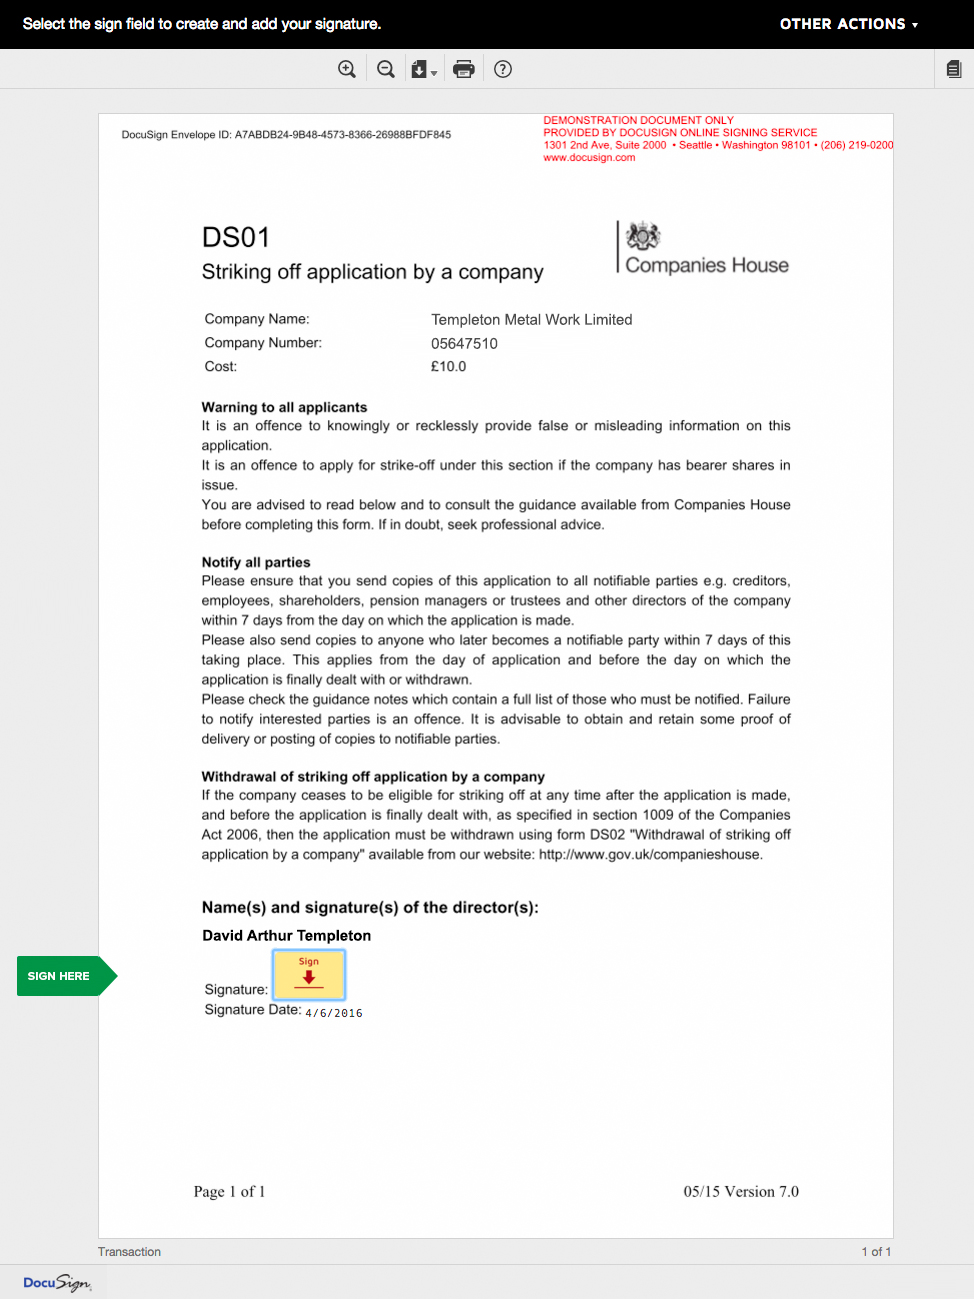
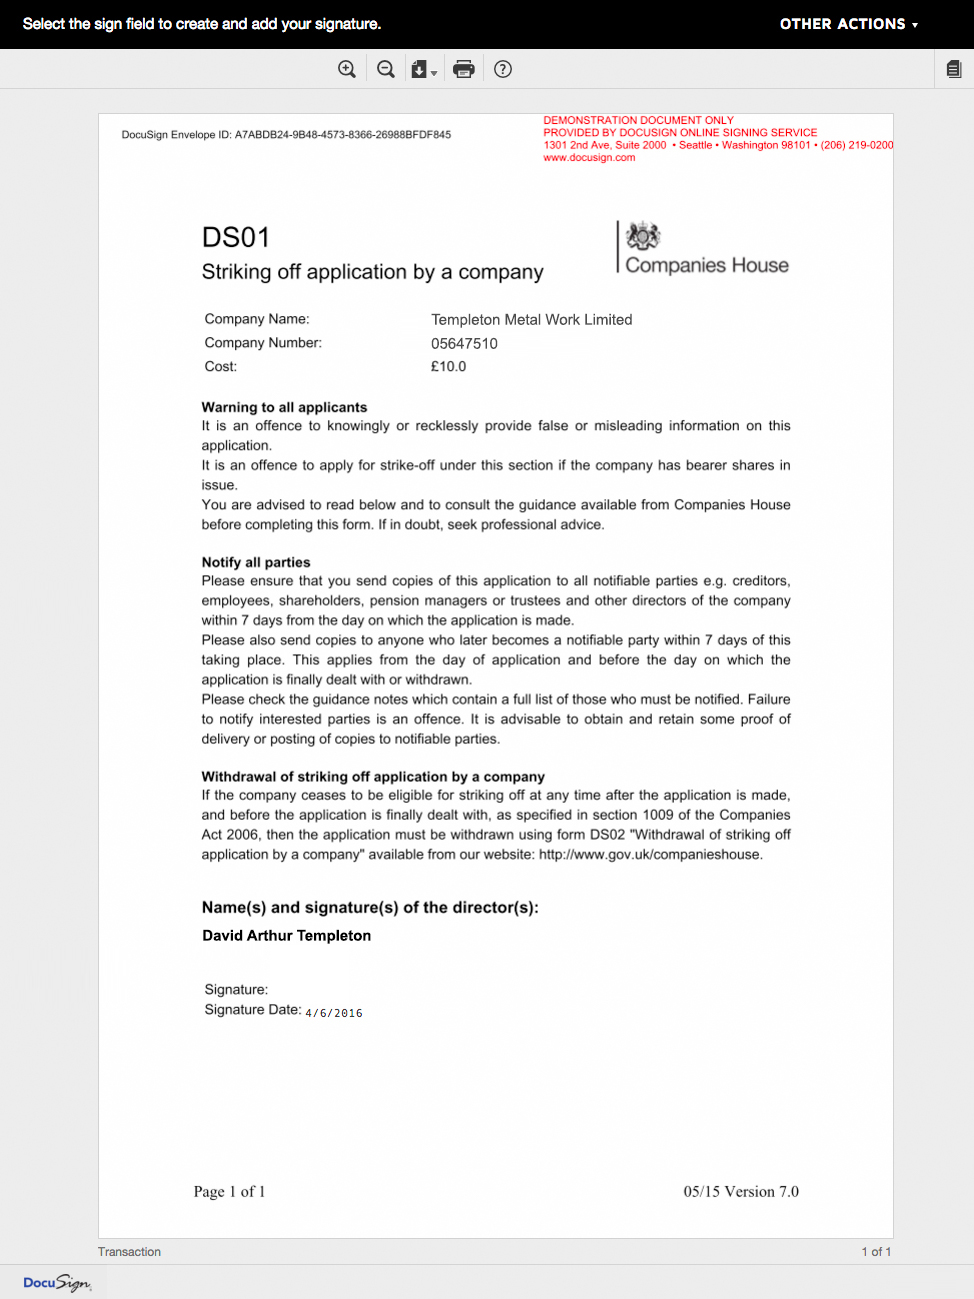
Updated signing process
Updated the dousing process to better reflect the real-world process.
Users now have to click the yellow ‘sign’ box and are shown the
confirmation bar before proceeding.

Changed region(s): [[0.2772, 0.7082, 0.3696, 0.7698], [0.0, 0.739, 0.1232, 0.7698]]

diff --git a/app/views/forms/DS01/company-details.html b/app/views/forms/DS01/company-details.html
@@ -30,7 +30,7 @@
             Company Number
             <span class="form-hint">This is the number you put at the bottom of your company stationery.</span>
           </label>
-          <input class="form-control" id="company-number" name="company-number" type="number" value="05647510">
+          <input class="form-control" id="company-number" name="company-number" type="number" value="">
         </div>
 
         <div class="form-group">
@@ -38,7 +38,7 @@
             Company authentication code
             <span class="form-hint">This is the code you use to file your accounts online.</span>
           </label>
-          <input class="form-control" id="company-auth-code" name="company-auth-code" type="text" value="44A7JJ9C">
+          <input class="form-control" id="company-auth-code" name="company-auth-code" type="text" value="">
           <p>
             <details>
               <summary><span class="summary">How do I get an authentication code?</span></summary>

diff --git a/app/assets/sass/application.scss b/app/assets/sass/application.scss
@@ -39,3 +39,43 @@
 }
 
 // Add extra styles here, or re-organise the Sass files in whichever way makes most sense to you
+
+//Docusign Styles
+.docusign {
+  &.unsigned {
+    background: url('/public/images/docusign-unsigned.png');
+    background-size: cover;
+    height: 1280px;
+    position: relative;
+    overflow: hidden;
+    .add-sig-box {
+      position: absolute;
+      left: 267px;
+      bottom: 285px;
+    }
+    .sign-tag {
+      position: absolute;
+      bottom:296px;
+      left:15px;
+    }
+    .sig {
+      display: none;
+      position: absolute;
+      bottom: 297px;
+      left: 269px;
+    }
+    .confirm-bar {
+      width: 960px;
+      height: 50px;
+      position: absolute;
+      bottom: -50px;
+      left: 0;
+      background: url('/public/images/confirm-bar.png');
+      .conf-btn {
+        position: absolute;
+        top: 5px;
+        left: 667px;
+      }
+    }
+  }
+}

diff --git a/app/views/forms/DS01/docusign.html b/app/views/forms/DS01/docusign.html
@@ -28,10 +28,17 @@
     As the director of Templeton Metal Work Limited, your signature is required to strike the company off the register.
   </p>
 
-  <div class="docusign">
-    <a href="docusign-signature">
-      <img src="/public/images/docusign-add-sig.jpg" alt="" style="width: 100%;">
+  <div class="docusign unsigned">
+    <a href="docusign-signature" class="add-sig-box">
+      <img src="/public/images/add-sig.png" alt="" class="">
     </a>
+    <img src="/public/images/sign-tag.png" alt="" class="sign-tag">
+    <img src="/public/images/sig.png" alt="" class="sig">
+    <div class="confirm-bar">
+      <a href="review" class="conf-btn">
+        <img src="/public/images/confirm-button.png" alt="" class="">
+      </a>
+    </div>
   </div>
 
 </main>

diff --git a/app/assets/javascripts/application.js b/app/assets/javascripts/application.js
@@ -498,4 +498,13 @@ $(document).ready(function() {
   toggleContent.showHideRadioToggledContent();
   toggleContent.showHideCheckboxToggledContent();
 
+  // Signature button click
+  $(".add-sig-box").click(function() {
+    $(this).hide();
+    $(".sign-tag").fadeOut();
+    $(".sig").show();
+    $(".confirm-bar").animate({bottom: "0px"});
+    return false;
+  });
+
 });

diff --git a/app/views/forms/DS01/docusign-signature.html b/app/views/forms/DS01/docusign-signature.html
@@ -28,7 +28,7 @@
     As the director of Templeton Metal Work Limited, your signature is required to strike the company off the register.
   </p>
 
-  <div class="docusign">
+  <div class="docusign signed">
     <a href="review">
       <img src="/public/images/docusign-sig-added.png" alt="" style="width: 100%;">
     </a>
